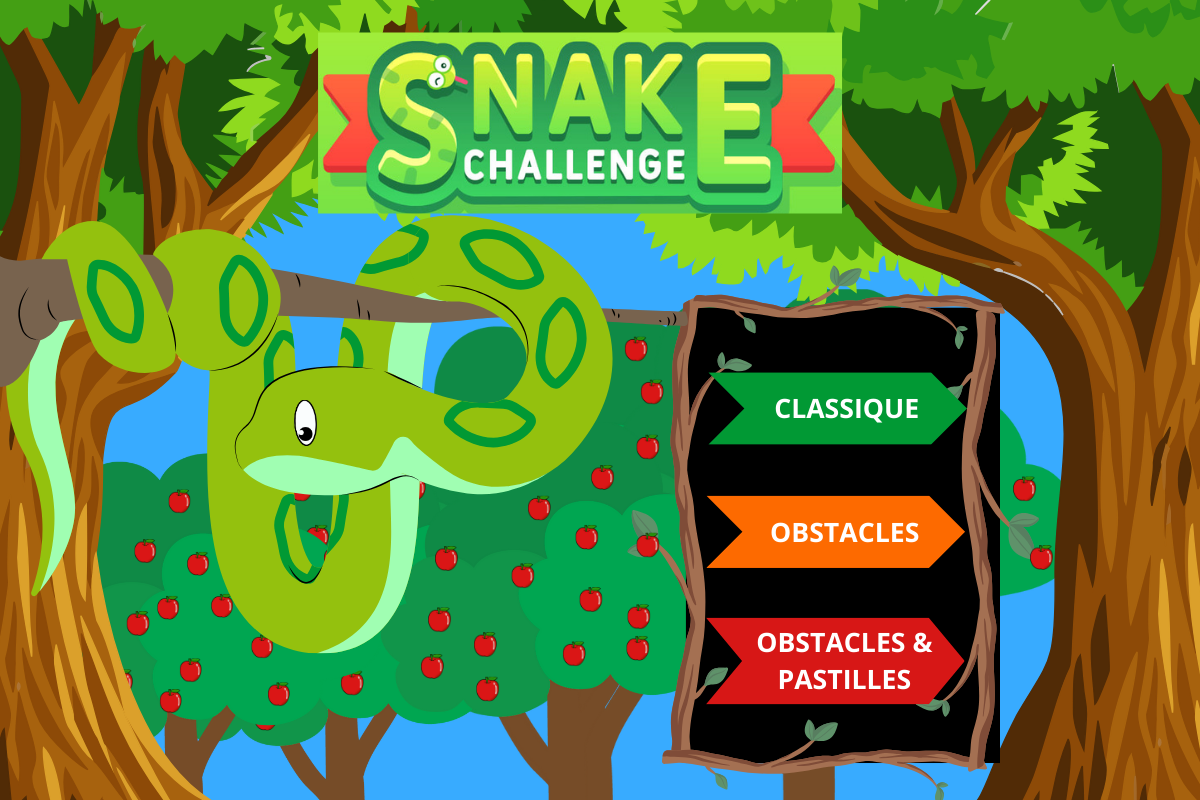
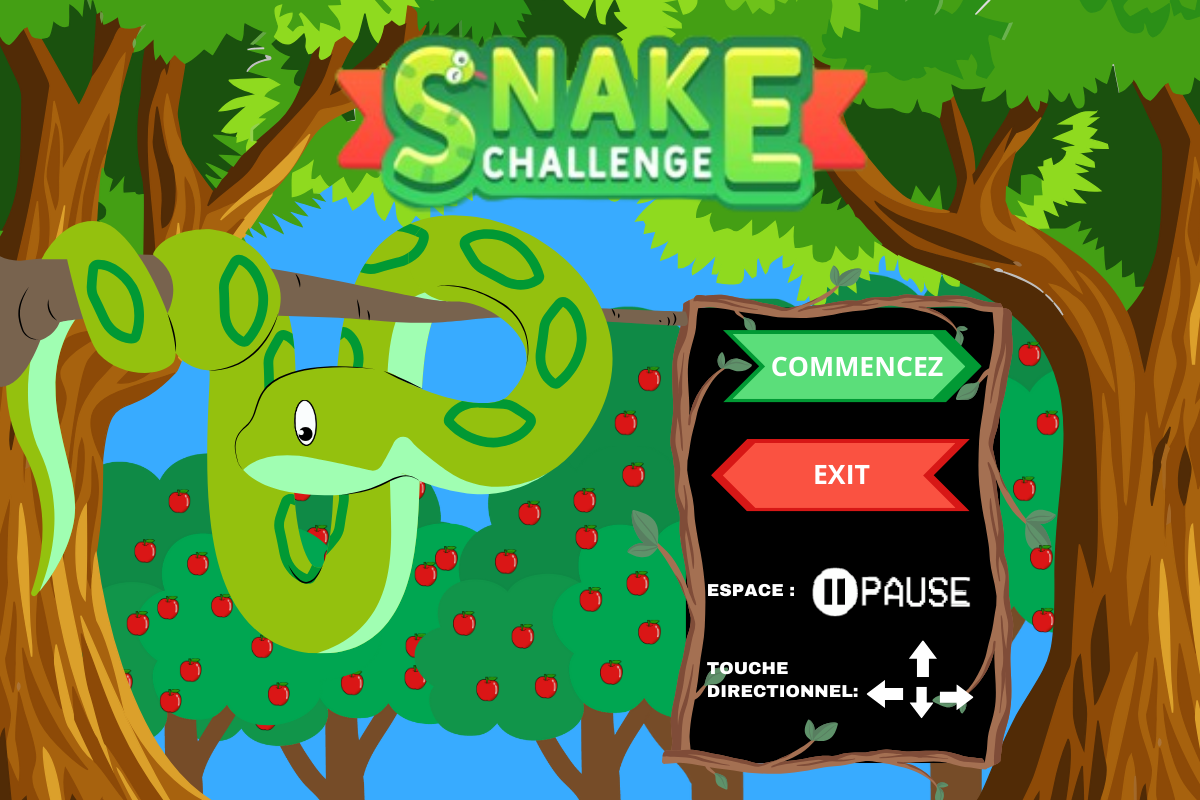
presque mais vraiment presque

Changed region(s): [[0.3392, 0.3438, 0.8942, 1.0], [0.2467, 0.0312, 0.74, 0.2812], [0.3392, 0.4062, 0.4625, 0.5]]

diff --git a/src/menu.c b/src/menu.c
@@ -2,17 +2,15 @@
 #include <stdio.h>
 #include <stdlib.h>
 #include "../include/menu.h"
-
-typedef struct {
-    int x, y, L, H;
-} Zone;
+#include "../include/structures.h"
 
 int check_zone(Zone z, int x, int y) {
     return (x >= z.x && x <= (z.x + z.L) && y >= z.y && y <= (z.y + z.H));
 }
 
 int afficher_menu(int *choix) {
-    Zone classique = {741, 371, 184, 72};
+    Zone commencer = {728,332,179,66};
+    Zone exit = {728,448,179,66};
     ChargerImageFond("image/menu.png");
 
     while (1) {
@@ -22,8 +20,17 @@ int afficher_menu(int *choix) {
             int x = _X;
             int y = _Y;
 
-            if (check_zone(classique, x, y)) {
+            if (check_zone(commencer, x, y)) {
                 *choix = 1;  
+                return;
+            }
+        }
+        if (SourisCliquee()) {
+            int x = _X;
+            int y = _Y;
+
+            if (check_zone(exit, x, y)) {
+                *choix = 2;  
                 return;
             }
         }

diff --git a/src/main.c b/src/main.c
@@ -57,18 +57,21 @@ int lancer_jeu() {
     
 }
 int main() {
-    int choix = 0;  
- 
+    int choix = 0;
+
     InitialiserGraphique();
     CreerFenetre(350, 100, 1200, 800);
     afficher_menu(&choix);
+
     if (choix == 1) {
-        
         lancer_jeu();
-    } else {
-        printf("Aucune option sélectionnée.\n");
-            }
+    } 
     
+    if (choix == 2) {
+        FermerGraphique();
+        return EXIT_SUCCESS;
+    } 
+
     FermerGraphique();
     return EXIT_SUCCESS;
 }

diff --git a/src/jeu.c b/src/jeu.c
@@ -65,7 +65,7 @@ void Attendre(int microsecondes) {
 
 void Update_Score(JEU *jeu) {
     char score_str[100];
-    snprintf(score_str, 100, "Score: %d", jeu->score);
+    snprintf(score_str, 100, "SCORE: %d", jeu->score);
     ChoisirCouleurDessin(CouleurParComposante(0, 0, 0));
     RemplirRectangle(1000, 700, 1100, 800);
     ChoisirCouleurDessin(CouleurParComposante(255, 255, 255));

diff --git a/src/terrain.c b/src/terrain.c
@@ -8,6 +8,9 @@ void DessinerScene(TIMER *temps, TERRAIN *terrain, SERPENT *snake, PASTILLE *pil
     int i;
     char timerText[6];
 
+    ChoisirCouleurDessin(CouleurParComposante(0, 0, 0));
+    RemplirRectangle(20, 600, 0, 0);
+
     snprintf(timerText, 6, "%02d:%02d", temps->minute, temps->seconde);
 
     ChoisirCouleurDessin(CouleurParComposante(181, 236, 197));

diff --git a/include/structures.h b/include/structures.h
@@ -51,6 +51,9 @@ struct Pastille_s{
 
 typedef struct Pastille_s PASTILLE;
 
+typedef struct {
+    int x, y, L, H;
+} Zone;
 
 
 #endif

diff --git a/include/menu.h b/include/menu.h
@@ -3,6 +3,6 @@
 
 #include "structures.h"
 
-int afficher_menu();
+int afficher_menu(int *choix);
 
 #endif
